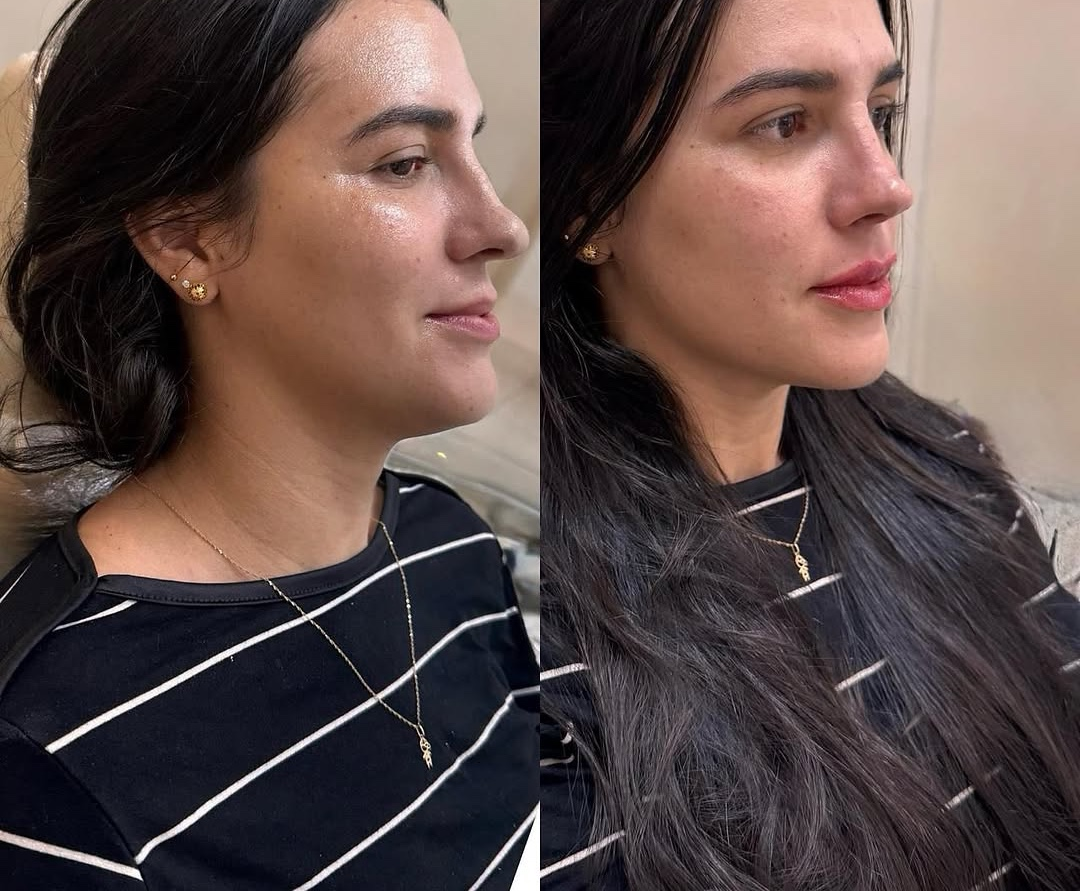
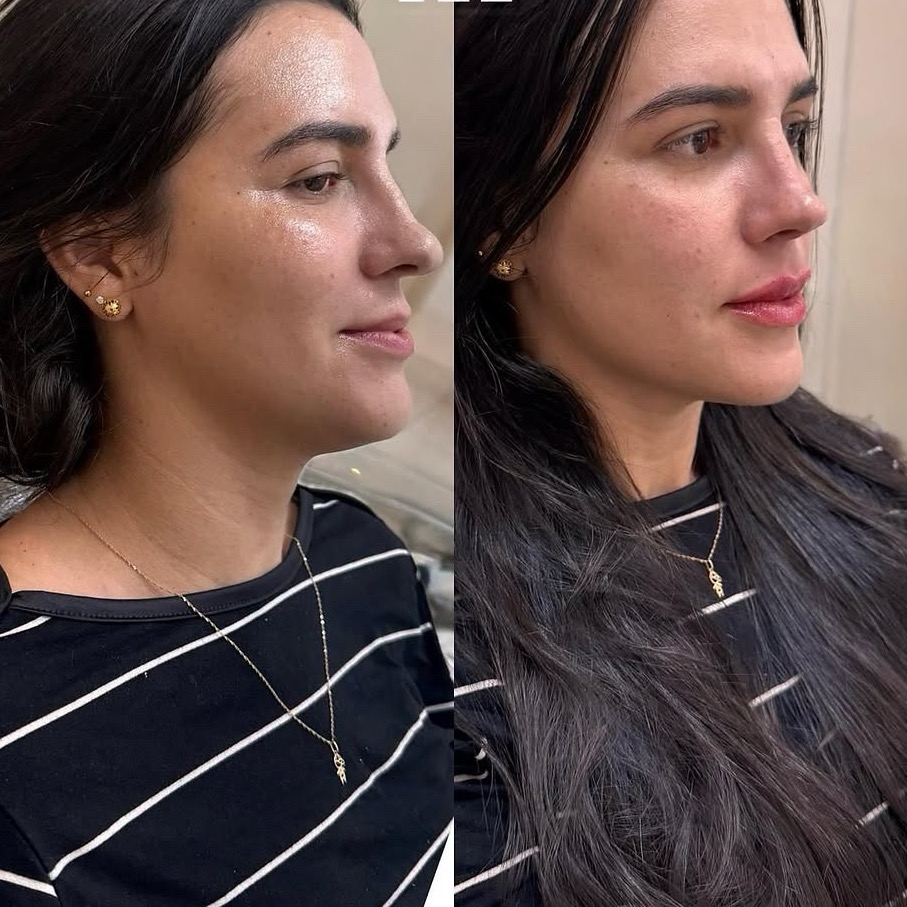
Reverte para o formato quadrado
O formato 3:4 da referencia nao e reproduzivel com estas fotos: la as
imagens ja nascem compostas em 3:4; aqui cada arquivo e um antes/depois
lado a lado em 1:1 ou 4:5, e preencher 3:4 exige tirar largura, que e
onde ficam as bordas dos dois rostos.

Restaura index.html e img/casos do commit b07e68f, o estado anterior ao
pedido de mudanca. A unificacao da mensagem do WhatsApp veio antes e
seguiu preservada: 7 links, um numero, uma mensagem.

Motivo registrado no LEIA-ME para nao se repetir a tentativa.

diff --git a/index.html b/index.html
@@ -185,23 +185,17 @@ p:last-child{margin-bottom:0}
    Rolagem contínua por scrollLeft (não por animação CSS), para as
    setas poderem interferir. O trilho carrega os 9 casos duas vezes:
    ao passar da metade, o scroll volta a metade exata e o laço some.
-
-   REGRA DA GALERIA: cada foto é uma composição antes/depois lado a
-   lado. Cortar a largura come a borda dos dois rostos e destrói a
-   comparação — que é a única razão da foto existir. Por isso os
-   cartões têm ALTURA FIXA e LARGURA NATURAL: a tira fica alinhada,
-   as larguras variam conforme a proporção de cada foto, e nenhuma
-   imagem perde um pixel na horizontal.
-   As marcas d'água foram removidas no arquivo, sempre por corte
-   vertical (cabelo e ombro), nunca horizontal.                     */
-.carrossel{--vao:clamp(14px,1.6vw,22px);--alt:clamp(300px,31vw,412px);
+   As molduras são 1:1 e as fotos têm largura ≤ altura, então "cover"
+   só corta na VERTICAL — as laterais do antes/depois ficam intactas.
+   data-corte manda a sobra para a ponta onde está a marca d'água.   */
+.carrossel{--vao:clamp(14px,1.6vw,22px);--cartao:clamp(232px,23vw,320px);
   position:relative;margin-top:clamp(2.5rem,4.5vw,3.5rem)}
 .carrossel__via{overflow-x:auto;overflow-y:hidden;scrollbar-width:none;-ms-overflow-style:none;
   -webkit-mask-image:linear-gradient(90deg,transparent 0,#000 6%,#000 94%,transparent 100%);
           mask-image:linear-gradient(90deg,transparent 0,#000 6%,#000 94%,transparent 100%)}
 .carrossel__via::-webkit-scrollbar{display:none}
 .carrossel__trilho{display:flex;gap:var(--vao);width:max-content;padding-inline:var(--vao)}
-.seta{position:absolute;top:calc(var(--alt)/2);transform:translateY(-50%);z-index:3;
+.seta{position:absolute;top:calc(var(--cartao)/2);transform:translateY(-50%);z-index:3;
   width:52px;height:52px;border-radius:50%;border:1px solid var(--linha);
   background:rgba(252,254,245,.92);backdrop-filter:blur(6px);color:var(--tinta);
   display:grid;place-items:center;cursor:pointer;
@@ -210,12 +204,17 @@ p:last-child{margin-bottom:0}
 .seta--ant{left:clamp(8px,2.5vw,34px)}
 .seta--prox{right:clamp(8px,2.5vw,34px)}
 .seta svg{width:17px;height:17px}
-.caso{margin:0;display:flex;flex-direction:column;flex:none}
-.caso__moldura{position:relative;overflow:hidden;height:var(--alt);width:max-content;
-  min-width:calc(var(--alt)*.8);
+.caso{margin:0;display:flex;flex-direction:column;flex:none;width:var(--cartao)}
+.caso__moldura{position:relative;overflow:hidden;aspect-ratio:1;
   background:var(--folha) var(--mono) no-repeat center/86px;border-radius:var(--r)}
-.caso__moldura img{height:100%;width:auto;display:block;
+.caso__moldura img{width:100%;height:100%;object-fit:cover;object-position:50% 50%;
   transition:transform 700ms cubic-bezier(.22,.61,.36,1);position:relative;z-index:1}
+.caso__moldura[data-corte="topo"]  img{object-position:50% 100%}
+.caso__moldura[data-corte="base"]  img{object-position:50% 0%}
+.caso__moldura[data-corte="ambos"] img{transform:scale(1.05)}
+.caso__moldura[data-zoom="sim"]    img{transform:scale(1.11)}
+.caso__moldura[data-zoom="sim"][data-corte="topo"] img{transform-origin:50% 100%}
+.caso__moldura[data-zoom="sim"][data-corte="base"] img{transform-origin:50% 0%}
 .caso__moldura::after{content:attr(data-vazio);position:absolute;left:0;right:0;bottom:14%;
   display:none;justify-content:center;font-size:.64rem;letter-spacing:.13em;
   text-transform:uppercase;color:var(--sutil);text-align:center;padding:0 1rem}
@@ -517,33 +516,33 @@ p:last-child{margin-bottom:0}
       <svg viewBox="0 0 24 24" fill="none" stroke="currentColor" stroke-width="1.4" aria-hidden="true"><path d="M15 5l-7 7 7 7"/></svg></button>
     <div class="carrossel__via" id="via">
       <div class="carrossel__trilho" id="trilho">
-        <figure class="caso"><div class="caso__moldura" data-vazio="caso-01.jpg">
+        <figure class="caso"><div class="caso__moldura" data-corte="nenhum" data-vazio="caso-01.jpg">
           <img src="img/casos/caso-01.jpg" alt="Antes e depois de harmonização facial: perfil com lábios e mento redefinidos" loading="lazy"></div>
           <figcaption><b>Perfil e lábios</b><span>Antes · Depois</span></figcaption></figure>
-        <figure class="caso"><div class="caso__moldura" data-vazio="caso-02.jpg">
+        <figure class="caso"><div class="caso__moldura" data-corte="nenhum" data-vazio="caso-02.jpg">
           <img src="img/casos/caso-02.jpg" alt="Antes e depois de harmonização facial: definição do terço inferior" loading="lazy"></div>
           <figcaption><b>Terço inferior</b><span>Antes · Depois</span></figcaption></figure>
-        <figure class="caso"><div class="caso__moldura" data-vazio="caso-03.jpg">
+        <figure class="caso"><div class="caso__moldura" data-corte="topo" data-vazio="caso-03.jpg">
           <img src="img/casos/caso-03.jpg" alt="Antes e depois de harmonização facial: contorno mandibular e projeção de mento" loading="lazy"></div>
-          <figcaption><b>Mandíbula</b><span>Antes · Depois</span></figcaption></figure>
-        <figure class="caso"><div class="caso__moldura" data-vazio="caso-04.jpg">
+          <figcaption><b>Contorno mandibular</b><span>Antes · Depois</span></figcaption></figure>
+        <figure class="caso"><div class="caso__moldura" data-corte="topo" data-vazio="caso-04.jpg">
           <img src="img/casos/caso-04.jpg" alt="Antes e depois de harmonização facial: sustentação do terço médio" loading="lazy"></div>
           <figcaption><b>Terço médio</b><span>Antes · Depois</span></figcaption></figure>
-        <figure class="caso"><div class="caso__moldura" data-vazio="caso-05.jpg">
+        <figure class="caso"><div class="caso__moldura" data-corte="base" data-vazio="caso-05.jpg">
           <img src="img/casos/caso-05.jpg" alt="Antes e depois de harmonização facial: suporte periorbital e leveza do olhar" loading="lazy"></div>
           <figcaption><b>Suporte do olhar</b><span>Antes · Depois</span></figcaption></figure>
-        <figure class="caso"><div class="caso__moldura" data-vazio="caso-06.jpg">
+        <figure class="caso"><div class="caso__moldura" data-corte="base" data-vazio="caso-06.jpg">
           <img src="img/casos/caso-06.jpg" alt="Antes e depois de harmonização facial: perfil alinhado entre nariz, lábios e mento" loading="lazy"></div>
           <figcaption><b>Linha de perfil</b><span>Antes · Depois</span></figcaption></figure>
-        <figure class="caso"><div class="caso__moldura" data-vazio="caso-07.jpg">
+        <figure class="caso"><div class="caso__moldura" data-corte="nenhum" data-vazio="caso-07.jpg">
           <img src="img/casos/caso-07.jpg" alt="Antes e depois de harmonização facial: refinamento sutil preservando os traços" loading="lazy"></div>
-          <figcaption><b>Refinamento</b><span>Antes · Depois</span></figcaption></figure>
-        <figure class="caso"><div class="caso__moldura" data-vazio="caso-08.jpg">
+          <figcaption><b>Refinamento sutil</b><span>Antes · Depois</span></figcaption></figure>
+        <figure class="caso"><div class="caso__moldura" data-corte="nenhum" data-vazio="caso-08.jpg">
           <img src="img/casos/caso-08.jpg" alt="Antes e depois de harmonização facial: volume labial equilibrado e ângulo definido" loading="lazy"></div>
           <figcaption><b>Lábios e ângulo</b><span>Antes · Depois</span></figcaption></figure>
-        <figure class="caso"><div class="caso__moldura" data-vazio="caso-09.jpg">
+        <figure class="caso"><div class="caso__moldura" data-corte="base" data-vazio="caso-09.jpg">
           <img src="img/casos/caso-09.jpg" alt="Antes e depois de harmonização facial: definição de contorno preservando a expressão" loading="lazy"></div>
-          <figcaption><b>Contorno</b><span>Antes · Depois</span></figcaption></figure>
+          <figcaption><b>Definição de contorno</b><span>Antes · Depois</span></figcaption></figure>
       </div>
     </div>
     <button class="seta seta--prox" id="setaProx" aria-label="Ver próximos casos" type="button">

diff --git a/LEIA-ME.md b/LEIA-ME.md
@@ -7,17 +7,22 @@ Duplo clique já abre. Deploy: joga a pasta inteira em qualquer host estático.
 
 ## 1. As 9 fotos — é isso que falta para o site parar de parecer vazio
 
-> **JÁ INSTALADAS.** As 9 fotos estão em `img/casos/` e no ar.
+> **JÁ INSTALADAS.** As 9 fotos estão em `img/casos/` e no ar, em cartões **quadrados**.
 >
-> **Regra inegociável:** cada arquivo é uma composição antes/depois lado a lado.
-> **Nunca corte na horizontal** — a lateral é a borda dos dois rostos, e cortá-la
-> destrói a comparação, que é a única razão da foto existir. As marcas d'água foram
-> removidas **só por corte vertical** (cabelo e ombro), com `_recorta.py`.
+> **Por que não é 3:4 como a referência.** Os cartões do site de referência são 3:4
+> preenchidos porque as imagens de lá já foram compostas nesse formato. As da Thainan
+> são 1:1 e 4:5, e cada uma é um antes/depois **lado a lado**. Preencher um 3:4 exige
+> retirar largura — que é justamente onde ficam as bordas dos dois rostos. Testado e
+> reprovado: custava de 8 a 12% de cada lateral e mutilava a comparação.
 >
-> Por isso os cartões do carrossel têm **altura fixa e largura natural** (`--alt` em
-> `.carrossel`), e não proporção fixa: a tira alinha pela altura, as larguras variam
-> conforme cada foto, e nenhuma imagem perde um pixel na horizontal. Se for repor
-> alguma foto, basta que ela chegue sem marca d'água — a proporção não importa.
+> **Regra:** corte só na vertical (cabelo, ombro), nunca na horizontal.
+>
+> Como funciona hoje: moldura 1:1. Como as 6 fotos 4:5 são mais altas que largas, o
+> `cover` num quadro quadrado sobra na vertical — o `data-corte` manda essa sobra para
+> a ponta onde está a marca d'água. Zero perda lateral nessas seis. As três de origem
+> quadrada não têm sobra vertical: `caso-01` não tinha marca, e `caso-02` e `caso-08`
+> tiveram a marca cortada no arquivo (topo + laterais para seguirem quadradas),
+> por isso estão com `data-corte="nenhum"` e não devem ser recortadas de novo.
 
 ### Jeito rápido (recomendado)
 Jogue as 9 fotos numa pasta qualquer — nomes não importam, só a **ordem alfabética**
